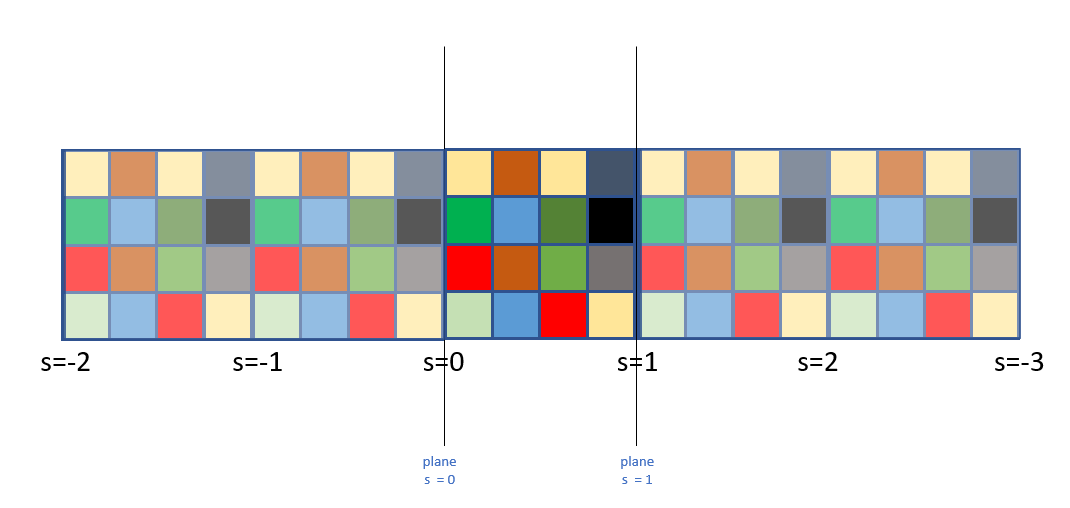
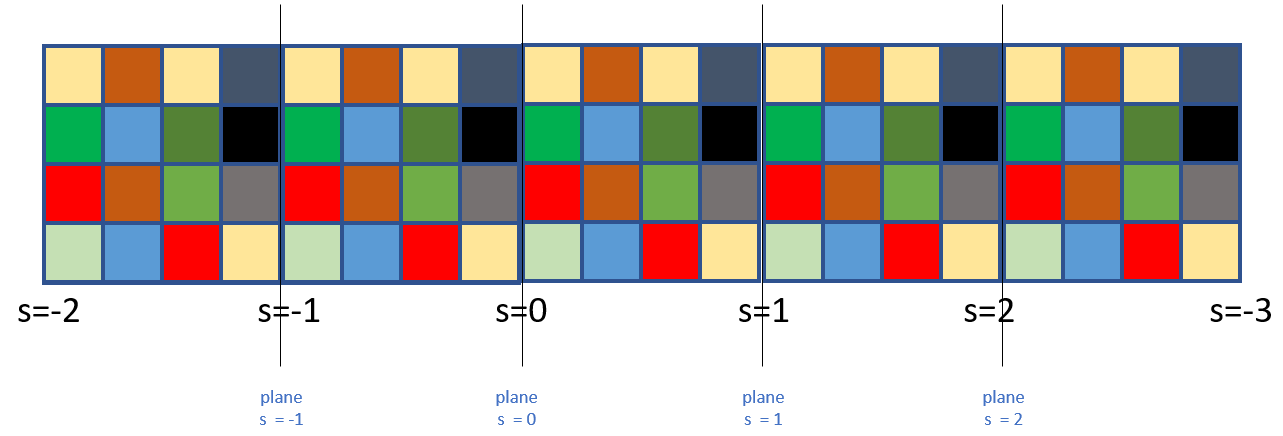
Fix links in document, update tilestle images

diff --git a/3MF Volumetric Extension.md b/3MF Volumetric Extension.md
@@ -127,7 +127,7 @@ For example, if the specification says that a certain value is sampled from the 
 
 The \<image3d>-element defines a voxel grid of values (e.g. RGB, Grey-Alpha, Grey) values distributed in a cuboid ([0..sizex] x [0..sizey] x [0..sheetcount]). The centers of each voxel (ix, iy, iz) are at the half integer positions (ix + 0.5, iy + 0.5, iz + 0.5), see Figure 2-2.
 The \<image3d> is not sampled in these absolute voxel coordinates, but instead in a normalized uvw-texture space: `(u,v,w) \in [0,1]x[0,1]x[0,1]`, where such that `(U,V,W) = (u*sizex,v*sizey,w*sheetcount)`.
-Sampling at a point `(U,V,W)` that is not a half-integer coordinate is done according to the filter-rule, see TODO-link.
+Sampling at a point `(U,V,W)` that is not a half-integer coordinate is done according to the filter-rule, see the [filter attribute on the Channel From Image3D](#chapter-3-channel-from-3d-image).
 
 _Figure 2-2: Voxel centers at half integer position and normalized uvw-texture space (2d-illustration)_
 ![Voxel centers at half integer position and normalized uvw-texture space (2d-illustration)](images/voxelcoordinatesystem.png)
@@ -173,10 +173,10 @@ The `valueoffset` and `valuescale` determine how the numerical values of any cha
 If a channel in the image-file of this \<image3dsheet> holds a numerical value `V`, it needs to be sampled as `V' = V*valuescale + valueoffset`.
 Specifying different `valueoffset` and `valuescale`-attributes for different \<image3dsheet>s is optional, but allows producers to more efficiently encode values in different regions of an object.
 
-Any interpolation of values of an \<image3dsheet>-element (c.f. TODO **filter** atribute) MUST be performed on the rescaled values `V'` according to the formula above. This is relevant if two subsequent \<image3dsheet>-elements have different values for `valueoffset` or `valuescale`.
+Any interpolation of values of an \<image3dsheet>-element (c.f. the [**filter** atribute on the Channel From Image3D](#chapter-3-channel-from-3d-image)) MUST be performed on the rescaled values `V'` according to the formula above. This is relevant if two subsequent \<image3dsheet>-elements have different values for `valueoffset` or `valuescale`.
 
 
-# Chapter 3. Channel from Image3D
+# Chapter 3. Channel from 3D Image
  
 Element type
 **\<channelfromimage3d>**
@@ -255,7 +255,7 @@ Element **\<volumetricstack>**
 | id | ST\_ResourceID | required | Specifies the id of this volumetricstack |
 
 The volumetric stack is a resource within a 3MF model that defines how volumetric data
-from multiple \<CT_ChannelFromImage3D> is composited to yield multiple custom scalar field in three dimensions (\<dstchannel>). This custom scalar field of a \<volumetricstack> element can then be used to define volumetric properties inside the \<volumedata>-element of an object, see TODO: link to volumedata-element[]().
+from multiple \<CT_ChannelFromImage3D> is composited to yield multiple custom scalar field in three dimensions (\<dstchannel>). This custom scalar field of a \<volumetricstack> element can then be used to define volumetric properties inside the \<volumedata>-element of an object, see the [volumedata-element](#chapter-5-volumetric-data).
 
 1. It defines multiple destination channels, \<dstchannel>-elements. Each destinaton channel is a scalar field in 3d, whose values can be retrieved by sampling this volumetricstack.
 
@@ -436,7 +436,6 @@ The value of the leveselt function `f` at a position `(x,y,z)` and the solidthre
 The transformation of the object coordinate system into the \<volumetricstack> coordinate system.
 If the boundary-channel of the enclosing \<mesh> is being sampled at position `(x,y,z)` in the mesh's local object coordinate system, the referenced channel in the \<volumetricstack> must be sampled at position `(x',y',z') = T*(x,y,z)`.
 
-TODO: update Illustration of different coordinate systems in the sampling process
 _Figure 5-2 Illustration of different coordinate systems in the sampling process_
 ![Illustration of different coordinate systems in the sampling process](images/fig_coordinatesystems.png)
 
@@ -522,7 +521,7 @@ The \<materialmapping> element defines the relative contribution of a specific m
 
 If the sampled value of a channel is `\<0` it must be evaluated as "0".
 
-Procuer MUST not create files where the sum of all values in it's child \<materialmapping>-elements is smaller then Epsilon TODO. If the total is smaller than this threshold, the mixing ratio is up to the consumer.
+Procuer MUST NOT create files where the sum of all values in it's child \<materialmapping>-elements is smaller than `10^-7`. If the total is smaller than this threshold, the mixing ratio is up to the consumer.
 
 - If we have N materials, then 
 Ratio of Material i at point X: value of channel i at point X / sum(all N channels at point X)
